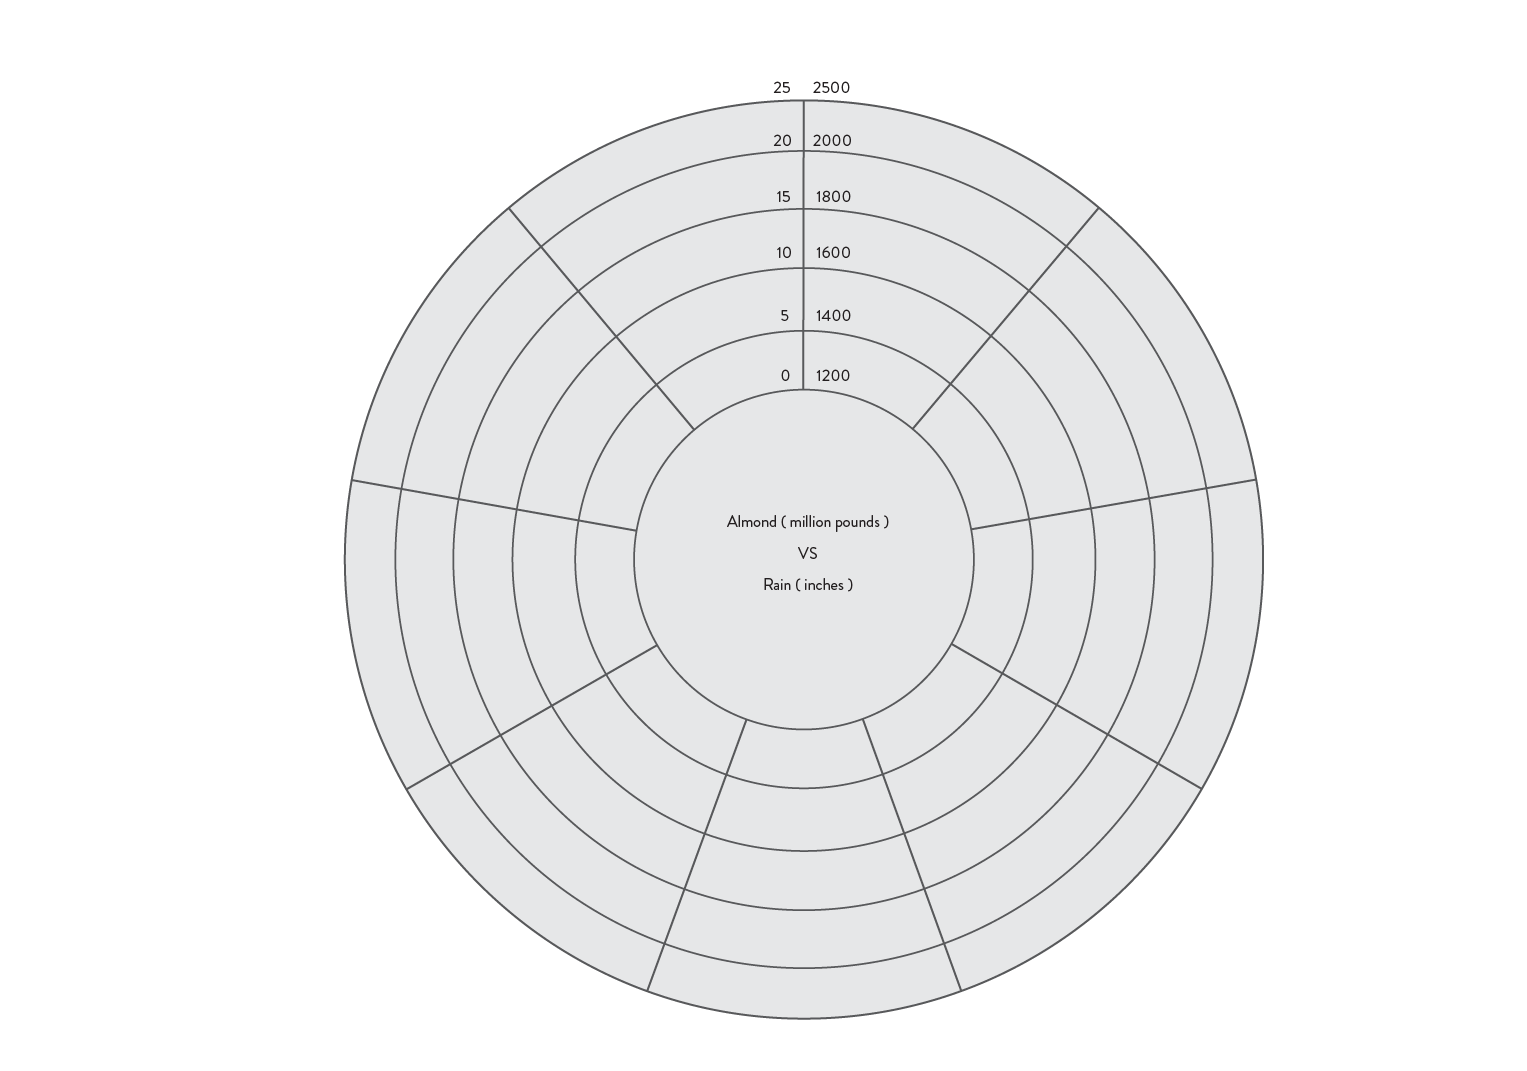
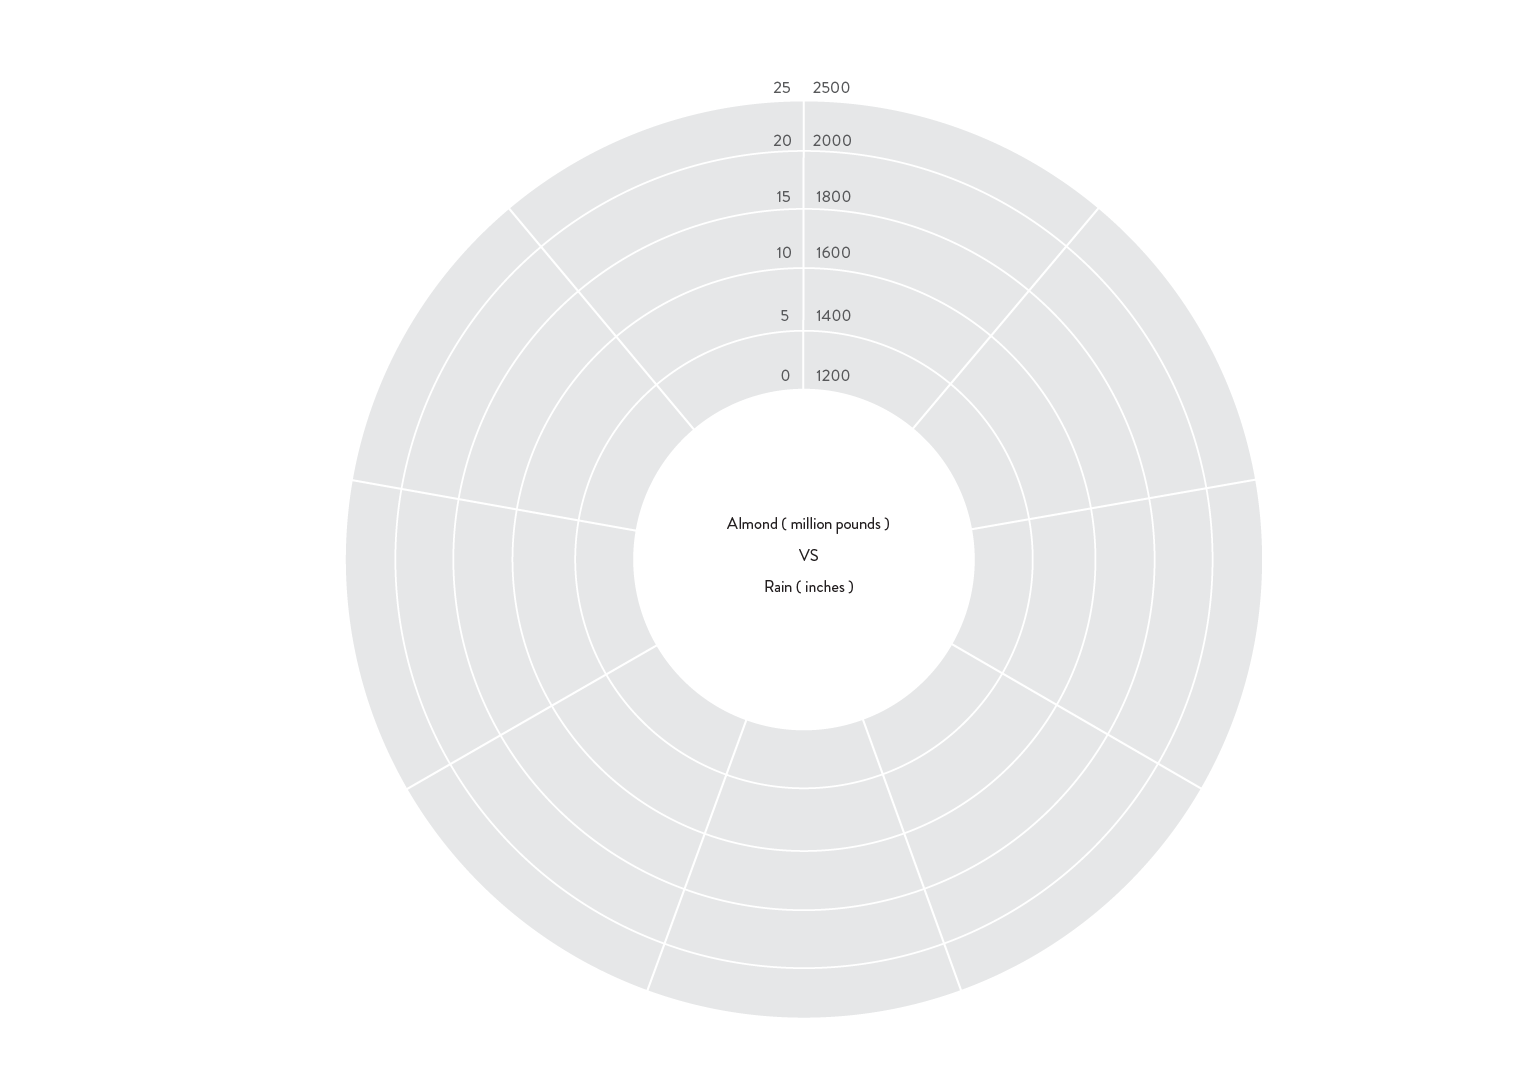
EDIT

diff --git a/anime/css/style.css b/anime/css/style.css
@@ -18,7 +18,7 @@ html, body{
 .almondrain{
 	width:100%;
 	height:700px;
-	background-color: #3AB4C5;
+	background-color: white;
 	z-index:-10;
 	position:absolute;
 }
@@ -31,25 +31,60 @@ html, body{
 	position:absolute;
 }
 
-.2009{
-	width:20px;
-	height:20px;
-	border-radius: 10px;
-	color:red;
+.yo{
+	width:10px;
+	height:10px;
+	border-radius: 50%;
+	background-color:#E25555;
 	z-index:10;
 	position:absolute;
-}
-.blink {
-	width:20px;
-	height:20px;
-	border-radius:10px;
-	color:red;
-	position:absolute;
-    animation: blinker 0.5s linear infinite;
+	margin-left: 810.5px;
+	margin-top: 210px;
 }
 
+.blink {
+	width:15px;
+	height:15px;
+	border-radius: 50%;
+	border-width: 2px;
+	border-style: solid;
+	border-color: #E25555;
+	position:absolute;
+	z-index:10;
+	left:-4px;
+	top:-5px;
+    animation: blinker 1.22s linear infinite;
+
+}
+.yo1{
+	width:10px;
+	height:10px;
+	border-radius: 50%;
+	background-color:#E25555;
+	z-index:10;
+	position:absolute;
+	margin-left: 888px;
+	margin-top: 278px;
+}
+
+.yo2{
+	width:10px;
+	height:10px;
+	border-radius: 50%;
+	background-color:#E25555;
+	z-index:10;
+	position:absolute;
+	margin-left: 928px;
+	margin-top: 422px;
+}
 
 @-webkit-keyframes blinker {
-   from { transform: scale(1.0); 0%{opacity:100;} }
-   to   { transform: scale(2.0); 100%{opacity:0;}}
+   from { transform: scale(0.5);  }
+   to   { transform: scale(2.0);
+		   opacity:0;}
+  
+
 }
+
+
+

diff --git a/anime/index.html b/anime/index.html
@@ -21,8 +21,9 @@
      <div class = "almondrain">
      <img class="imgA" src="img/Artboard 1.png">
     </div>
-     <div class="2009">
-          <div class="blink"></div>
+     <div class="yo"> <div class="blink"></div></div>
+     <div class="yo1"><div class="blink"></div></div>   
+     <div class="yo2"><div class="blink"></div></div>
      </div>
   </div>
 

diff --git a/Home /css/main1.css b/Home /css/main1.css
@@ -16,7 +16,7 @@ html, body{
   opacity:;
 }
 
-
+@media screen and (max-width: 340px) {}
 
 #heading{
 
@@ -31,7 +31,7 @@ html, body{
 
 .fullwidth1{
    width: 100%;
-  height: 700px;
+  height: auto;
   box-shadow: 0 22px 54px 0 rgba(0,0,0,0.50);
   background-color: #E6E6E6;
 
